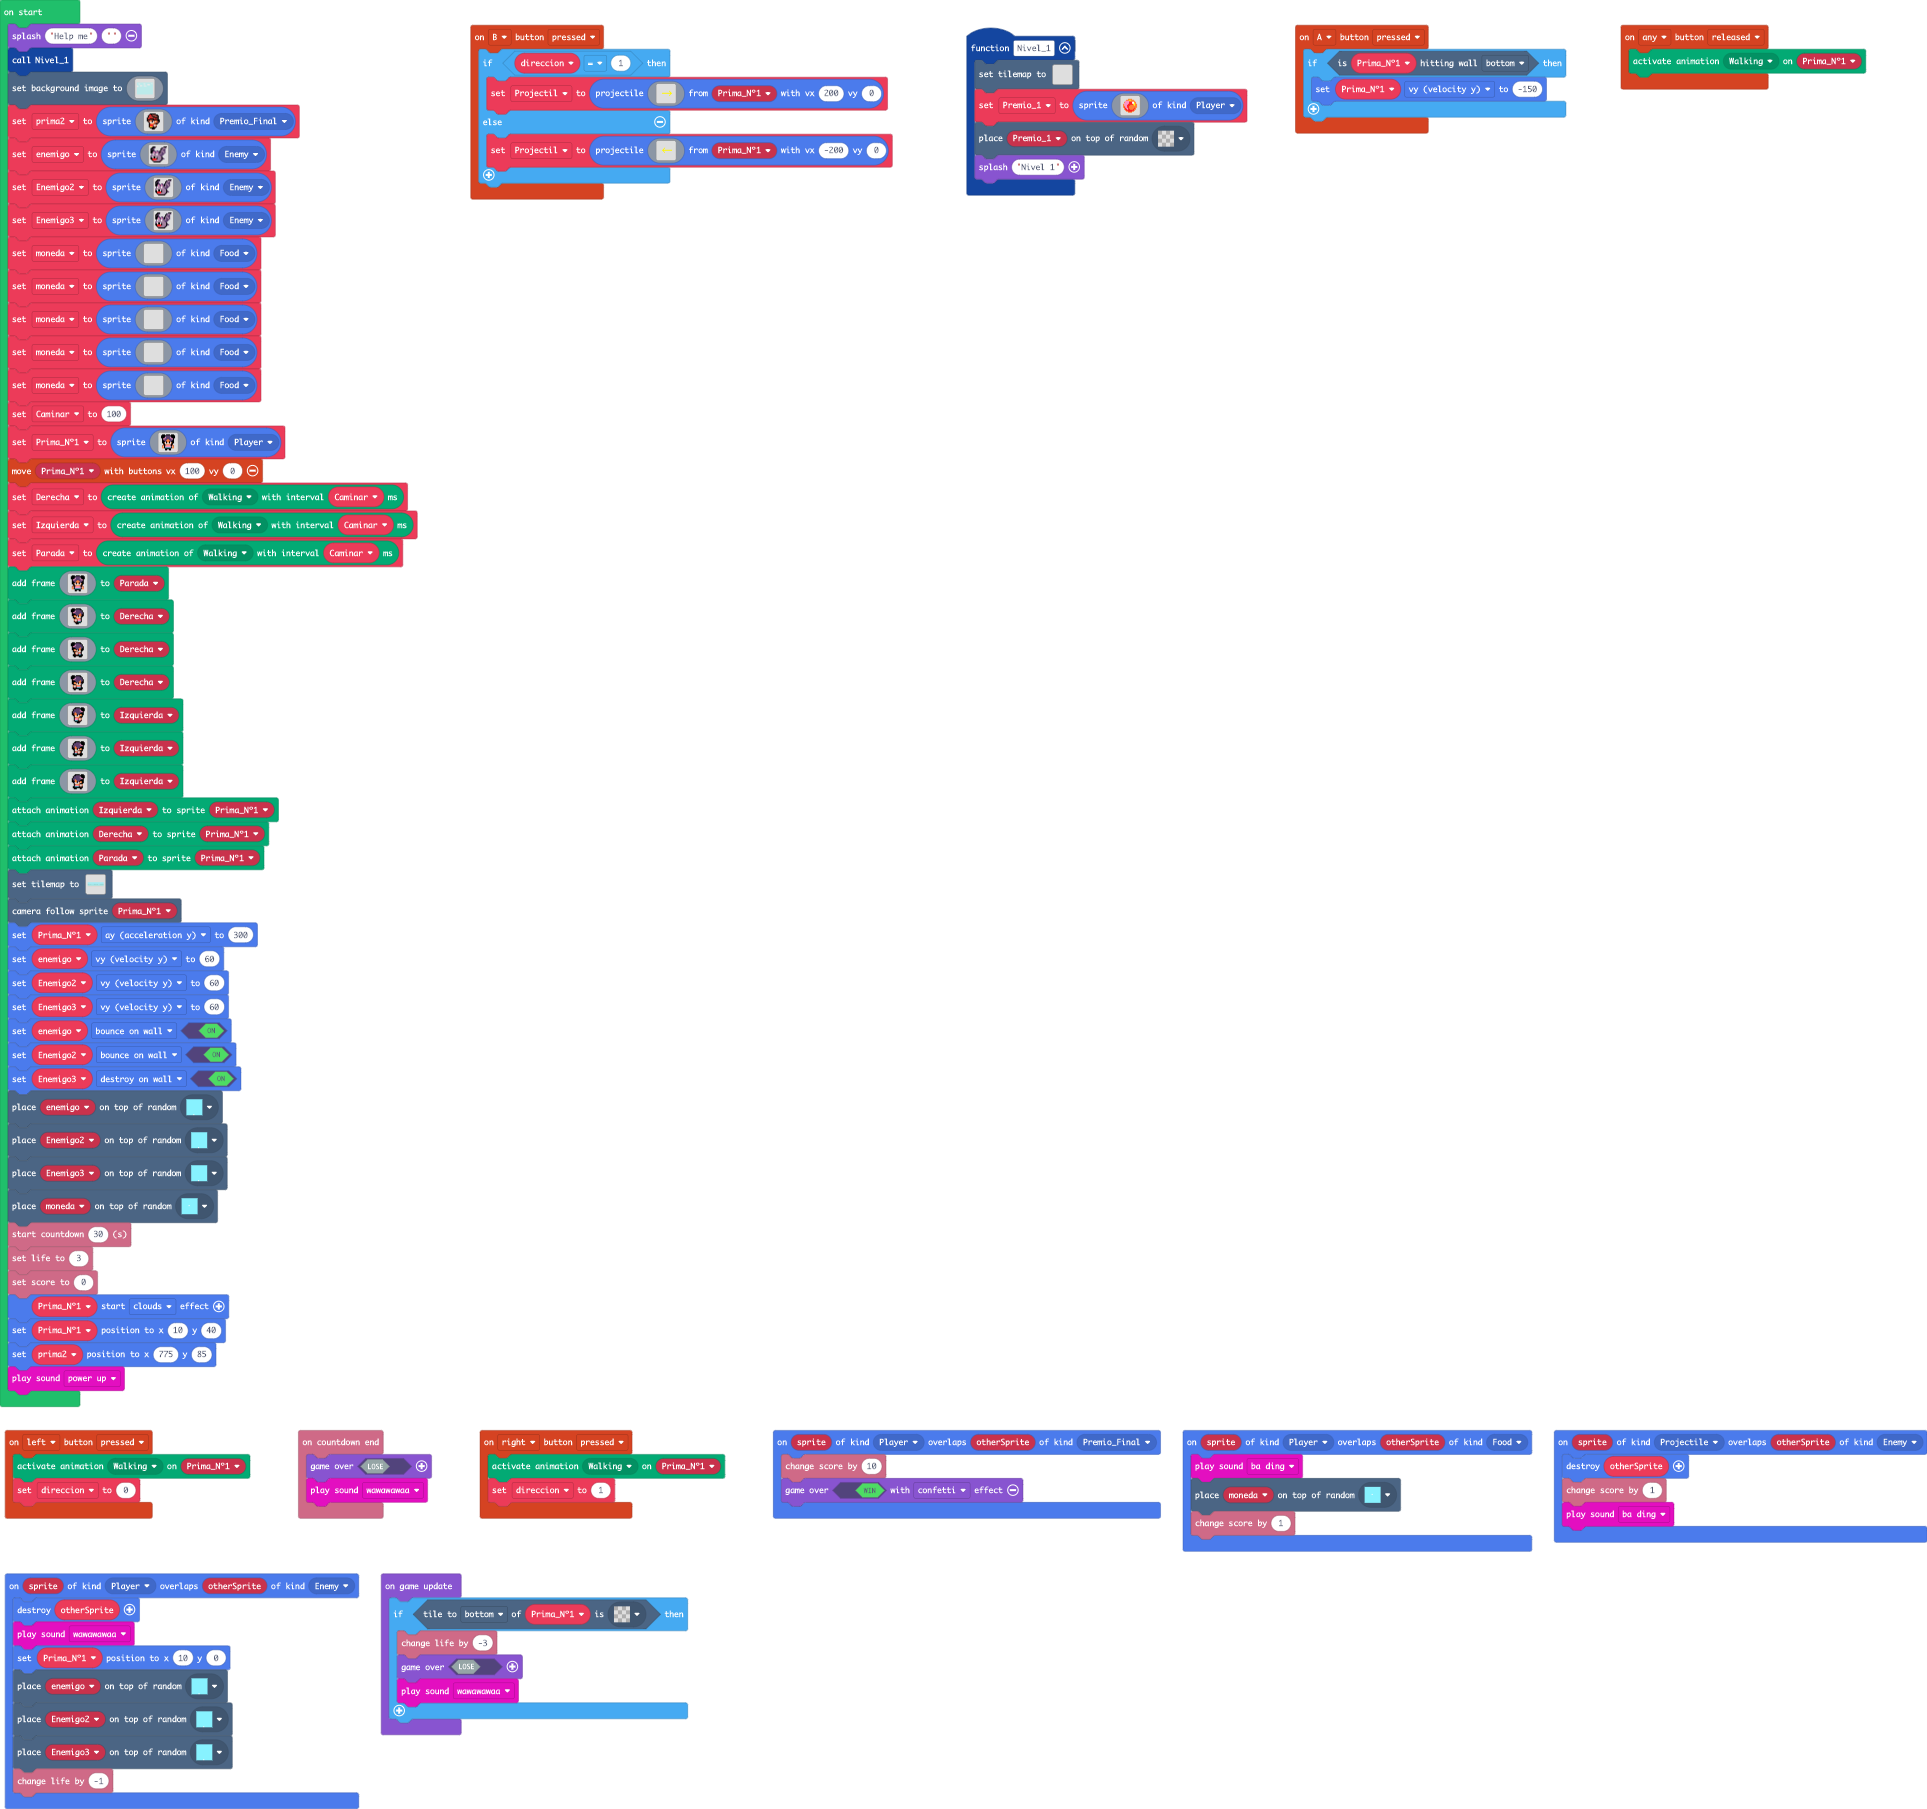
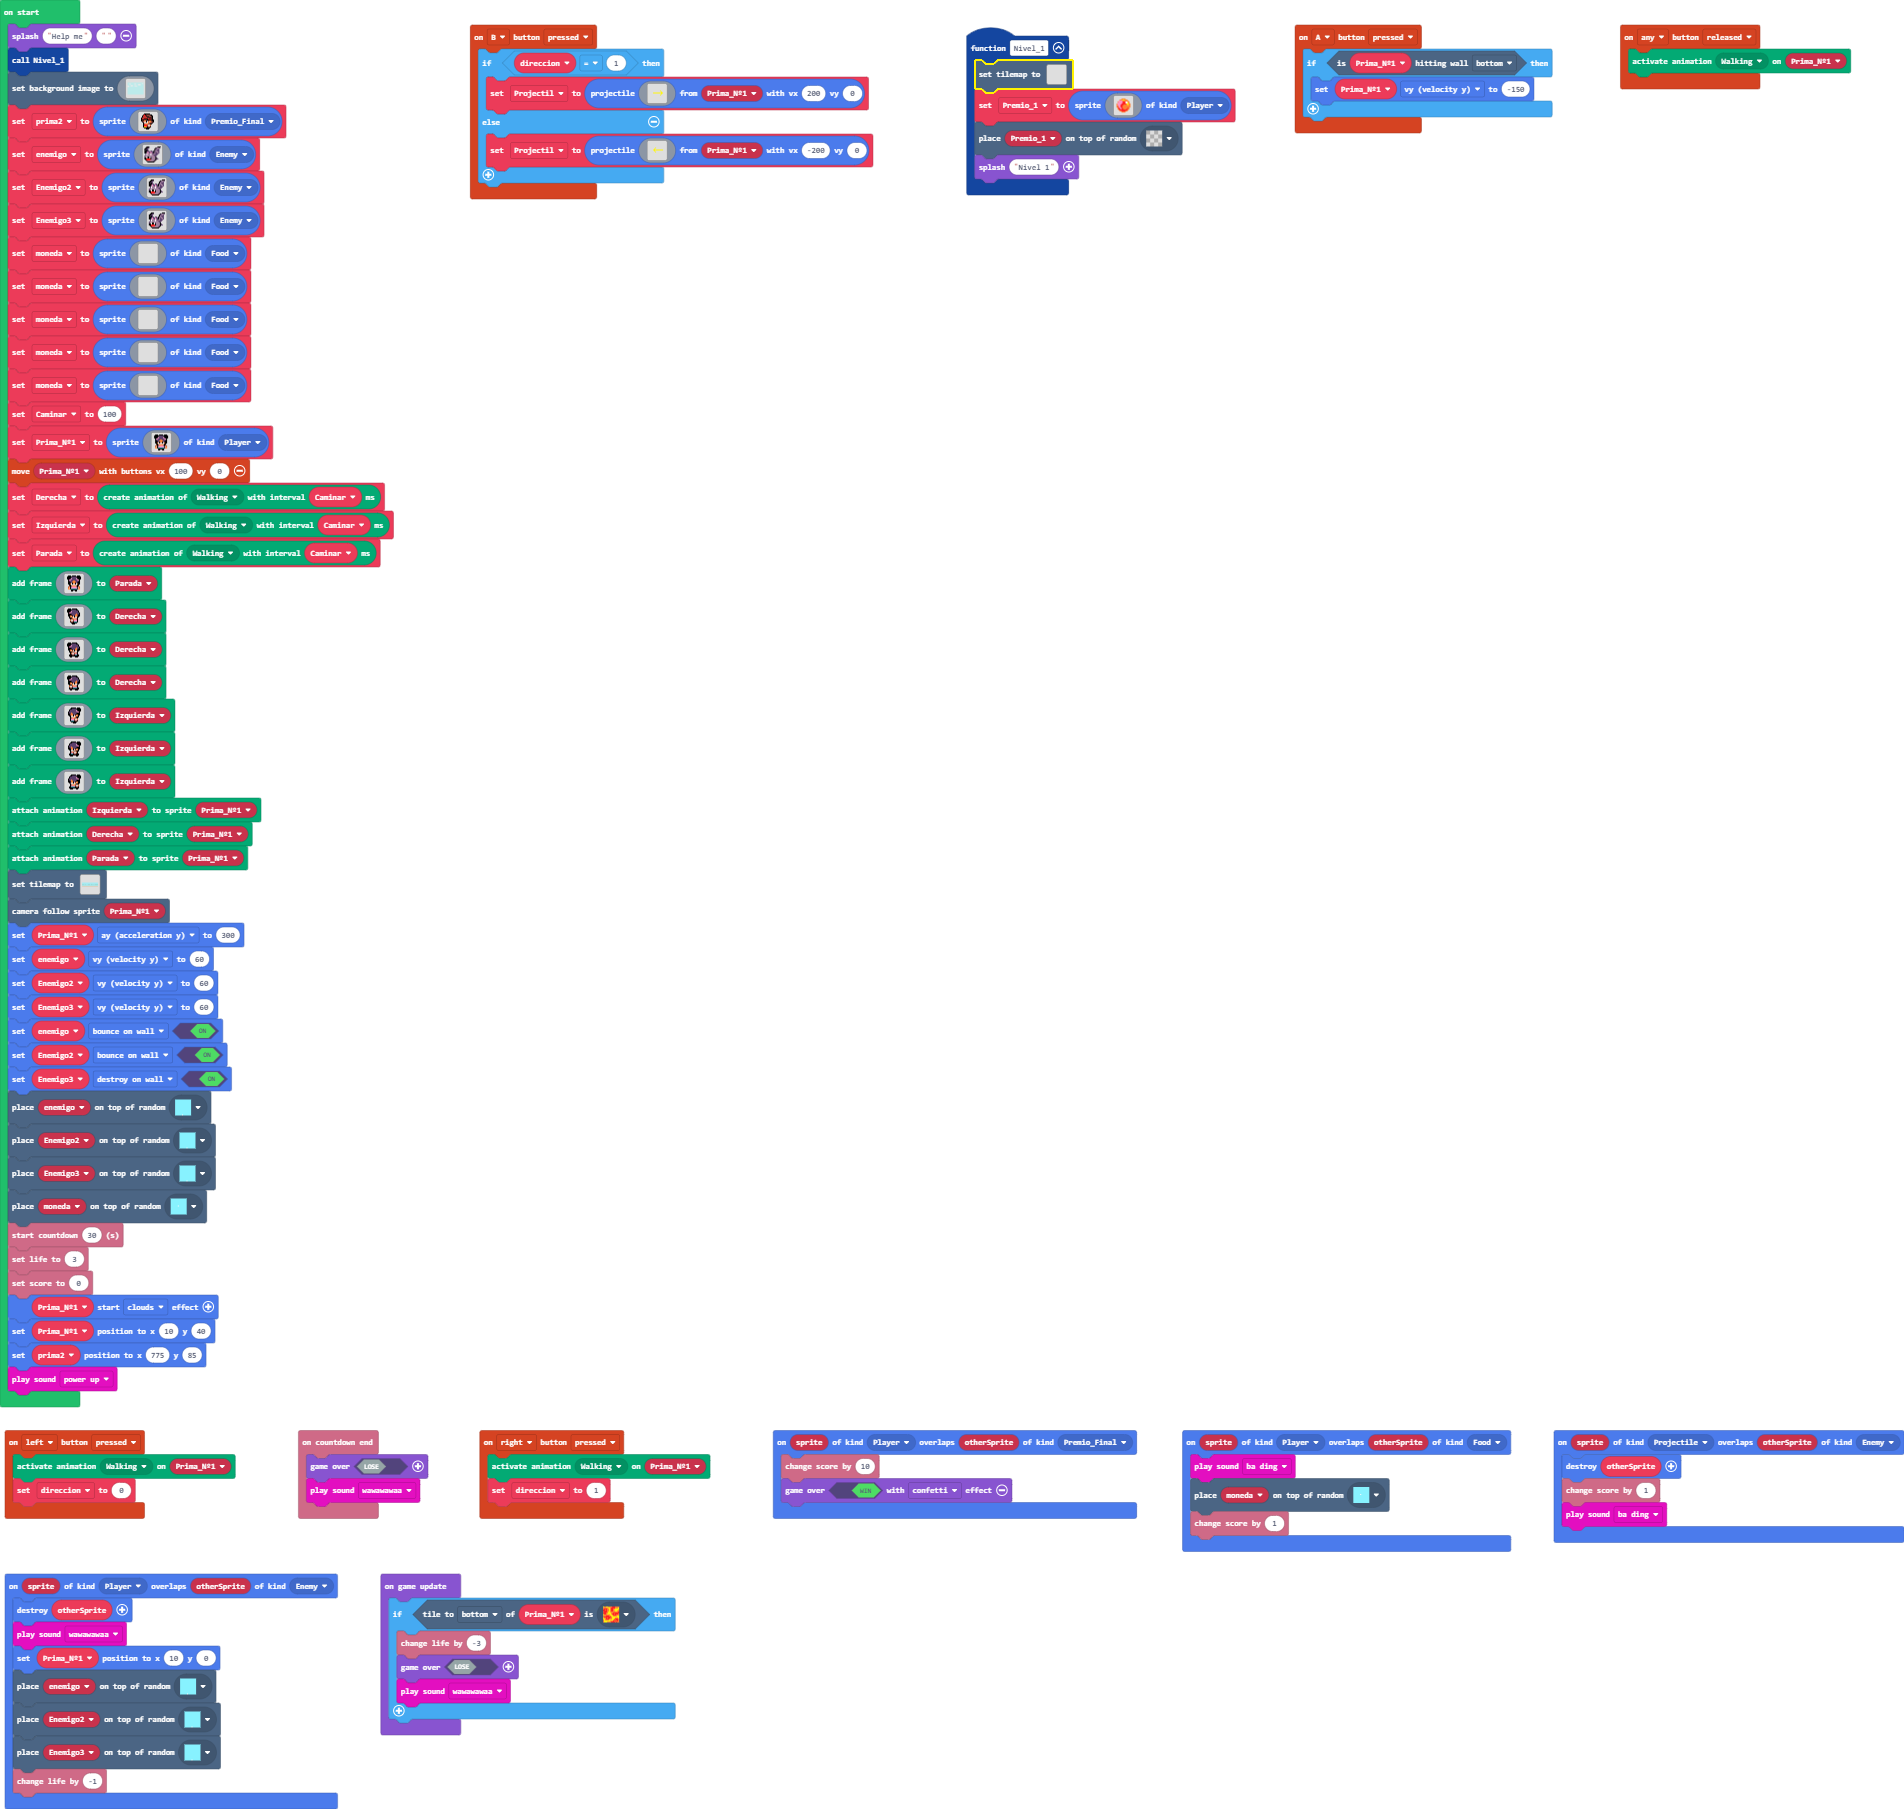
Update main.blocks, main.ts

diff --git a/main.ts b/main.ts
@@ -52,23 +52,39 @@ controller.B.onEvent(ControllerButtonEvent.Pressed, function () {
     }
 })
 function Nivel_1 () {
-    tiles.setTilemap(tiles.createTilemap(hex`1000100000000000000000000000000000000000000000000000000000000000000000000000000000000000000000000000000000000000000000000000000000000000000000000000000000000000000000000000000000000000000000000000000000000000000000000000000000000000000000000000000000000000000000000000000000000000000000000000000000000000000000000000000000000000000000000000000000000000000000000000000000000000000000000000000000000000000000000000000000000000000000000000000000000000000000000000000000000000000000000000000000000000000000000000000000000000`, img`
-        . . . . . . . . . . . . . . . . 
-        . . . . . . . . . . . . . . . . 
-        . . . . . . . . . . . . . . . . 
-        . . . . . . . . . . . . . . . . 
-        . . . . . . . . . . . . . . . . 
-        . . . . . . . . . . . . . . . . 
-        . . . . . . . . . . . . . . . . 
-        . . . . . . . . . . . . . . . . 
-        . . . . . . . . . . . . . . . . 
-        . . . . . . . . . . . . . . . . 
-        . . . . . . . . . . . . . . . . 
-        . . . . . . . . . . . . . . . . 
-        . . . . . . . . . . . . . . . . 
-        . . . . . . . . . . . . . . . . 
-        . . . . . . . . . . . . . . . . 
-        . . . . . . . . . . . . . . . . 
+    tiles.setTilemap(tiles.createTilemap(hex`400020000000000000000000000000000000000000000000000000000000000000000000000000000000000000000000000000000000000000000000000000000000000000000000000000000000000000000000000000000000000000000000000000000000000000000000000000000000000000000000000000000000000000000000000000000000000000000000000000000000000000000000000000000000000000000000000000000000000000000000000000000000000000000000000000000000000000000000000000000000000000000000000000000000000000000000000000000000000000000000000000000000000000000000000000000000000000000000000000000000000000000000000000000000000000000000000000000000000000000000000000000000000000000000000000000000000000000000000000000000000000000000000000000000000000000000000000000000000000000000000000000000000000000000000000000000000000000000000000000000000000000000000000000000000000000000000000000000000000000000000000000000000000000000000000000000000000000000000000000000000000000000000000000000000000000000000000000000000000000000000000000000000000000000000000000000000000000000000000000000000000000000000000000000000000000000000000000000000000000000000000000000000000000000000000000000000000000000000000000000000000000000000000000000000000000000000000000000000000000000000000000000000000000000000000000000000000000000000000000000000000000000000000000000000000000000000000000000000000000000000000000000000000000000000000000000000000000000000000000000000000000000000000000000000000000000000000000000000000000000000000000000000000000000000000000000000000000000000000000000000000000000000000000000000000000000000000000000000000000000000000000000000000000000000000000000000000000000000000000000000000000000000000000000000000000000000000000000000000000000000000000000000000000000000000000000000000000000000000000000000000000000000000000000000000000000000000000000000000000000000000000000000000000000000000000000000000000000000000000000000000000000000000000000000000000000000000000000000000000000000000000000000000000000000000000000000000000000000000000000000000000000000000000000000000000000000000000000000000000000000000000000000000000000000000000000000000000000000000000000000000000000000000000000000000000000000000000000000000000000000000000000000000000000000000000000000000000000000000000000000000000000000000000000000000000000000000000000000000000000000000000000000000000000000000000000000000000000000000000000000000000000000000000000000000000000000000000000000000000000000000000000000000000000000000000000000000000000000000000000000000000000000000000000000000000000000000000000000000000000000000000000000000000000000000000000000000000000000000000000000000000000000000000000000000000000000000000000000000000000000000000000000000000000000000000000000000000000000000000000000000000000000000000000000000000000000000000000000000000000000000000000000000000000000000000000000000000000000000000000000000000000000000000000000000000000000000000000000000000000000000000000000000000000000000000000000000000000000000000000000000000000000000000000000000000000000000000000000000000000000000000000000000000000000000000000000000000000000000000000000000000000000000000000000000000000000000000000000000000000000000000000000000000000000000000000000000000000000000000000000000000000000000000000000000000000000000000000000000000000000000000000000000000000000000000000000000000000000000000000000000000000000000000000000000000000000000000000000000000000000000000000000000000000000000000000000000000000000000000000000000000000000000000000000000000000000000000000000000000000000000000000000000000000000000000000000000000000000000000000000000000000000000000000000000000000000000000000000000000000000000000000000000000000000000000000000000000000000000000000000000000000000000000000000000000000000000000000000000000000000000000000000000000000000000000000000000000000000000000000000000000000000000000000000000000000000000000000000000000000000000000000000000000000000000000000000000000000000000000000000000000000000000000000000000000000000000000000000000000000000000000000000000000000000000000000000000000000000000000000000000000000000000000000000000000000000000000000000000000000000000000000000000000000`, img`
+        . . . . . . . . . . . . . . . . . . . . . . . . . . . . . . . . . . . . . . . . . . . . . . . . . . . . . . . . . . . . . . . . 
+        . . . . . . . . . . . . . . . . . . . . . . . . . . . . . . . . . . . . . . . . . . . . . . . . . . . . . . . . . . . . . . . . 
+        . . . . . . . . . . . . . . . . . . . . . . . . . . . . . . . . . . . . . . . . . . . . . . . . . . . . . . . . . . . . . . . . 
+        . . . . . . . . . . . . . . . . . . . . . . . . . . . . . . . . . . . . . . . . . . . . . . . . . . . . . . . . . . . . . . . . 
+        . . . . . . . . . . . . . . . . . . . . . . . . . . . . . . . . . . . . . . . . . . . . . . . . . . . . . . . . . . . . . . . . 
+        . . . . . . . . . . . . . . . . . . . . . . . . . . . . . . . . . . . . . . . . . . . . . . . . . . . . . . . . . . . . . . . . 
+        . . . . . . . . . . . . . . . . . . . . . . . . . . . . . . . . . . . . . . . . . . . . . . . . . . . . . . . . . . . . . . . . 
+        . . . . . . . . . . . . . . . . . . . . . . . . . . . . . . . . . . . . . . . . . . . . . . . . . . . . . . . . . . . . . . . . 
+        . . . . . . . . . . . . . . . . . . . . . . . . . . . . . . . . . . . . . . . . . . . . . . . . . . . . . . . . . . . . . . . . 
+        . . . . . . . . . . . . . . . . . . . . . . . . . . . . . . . . . . . . . . . . . . . . . . . . . . . . . . . . . . . . . . . . 
+        . . . . . . . . . . . . . . . . . . . . . . . . . . . . . . . . . . . . . . . . . . . . . . . . . . . . . . . . . . . . . . . . 
+        . . . . . . . . . . . . . . . . . . . . . . . . . . . . . . . . . . . . . . . . . . . . . . . . . . . . . . . . . . . . . . . . 
+        . . . . . . . . . . . . . . . . . . . . . . . . . . . . . . . . . . . . . . . . . . . . . . . . . . . . . . . . . . . . . . . . 
+        . . . . . . . . . . . . . . . . . . . . . . . . . . . . . . . . . . . . . . . . . . . . . . . . . . . . . . . . . . . . . . . . 
+        . . . . . . . . . . . . . . . . . . . . . . . . . . . . . . . . . . . . . . . . . . . . . . . . . . . . . . . . . . . . . . . . 
+        . . . . . . . . . . . . . . . . . . . . . . . . . . . . . . . . . . . . . . . . . . . . . . . . . . . . . . . . . . . . . . . . 
+        . . . . . . . . . . . . . . . . . . . . . . . . . . . . . . . . . . . . . . . . . . . . . . . . . . . . . . . . . . . . . . . . 
+        . . . . . . . . . . . . . . . . . . . . . . . . . . . . . . . . . . . . . . . . . . . . . . . . . . . . . . . . . . . . . . . . 
+        . . . . . . . . . . . . . . . . . . . . . . . . . . . . . . . . . . . . . . . . . . . . . . . . . . . . . . . . . . . . . . . . 
+        . . . . . . . . . . . . . . . . . . . . . . . . . . . . . . . . . . . . . . . . . . . . . . . . . . . . . . . . . . . . . . . . 
+        . . . . . . . . . . . . . . . . . . . . . . . . . . . . . . . . . . . . . . . . . . . . . . . . . . . . . . . . . . . . . . . . 
+        . . . . . . . . . . . . . . . . . . . . . . . . . . . . . . . . . . . . . . . . . . . . . . . . . . . . . . . . . . . . . . . . 
+        . . . . . . . . . . . . . . . . . . . . . . . . . . . . . . . . . . . . . . . . . . . . . . . . . . . . . . . . . . . . . . . . 
+        . . . . . . . . . . . . . . . . . . . . . . . . . . . . . . . . . . . . . . . . . . . . . . . . . . . . . . . . . . . . . . . . 
+        . . . . . . . . . . . . . . . . . . . . . . . . . . . . . . . . . . . . . . . . . . . . . . . . . . . . . . . . . . . . . . . . 
+        . . . . . . . . . . . . . . . . . . . . . . . . . . . . . . . . . . . . . . . . . . . . . . . . . . . . . . . . . . . . . . . . 
+        . . . . . . . . . . . . . . . . . . . . . . . . . . . . . . . . . . . . . . . . . . . . . . . . . . . . . . . . . . . . . . . . 
+        . . . . . . . . . . . . . . . . . . . . . . . . . . . . . . . . . . . . . . . . . . . . . . . . . . . . . . . . . . . . . . . . 
+        . . . . . . . . . . . . . . . . . . . . . . . . . . . . . . . . . . . . . . . . . . . . . . . . . . . . . . . . . . . . . . . . 
+        . . . . . . . . . . . . . . . . . . . . . . . . . . . . . . . . . . . . . . . . . . . . . . . . . . . . . . . . . . . . . . . . 
+        . . . . . . . . . . . . . . . . . . . . . . . . . . . . . . . . . . . . . . . . . . . . . . . . . . . . . . . . . . . . . . . . 
+        . . . . . . . . . . . . . . . . . . . . . . . . . . . . . . . . . . . . . . . . . . . . . . . . . . . . . . . . . . . . . . . . 
         `, [myTiles.transparency16], TileScale.Sixteen))
     Premio_1 = sprites.create(img`
         . . . . . . . . . . . . . . . . 
